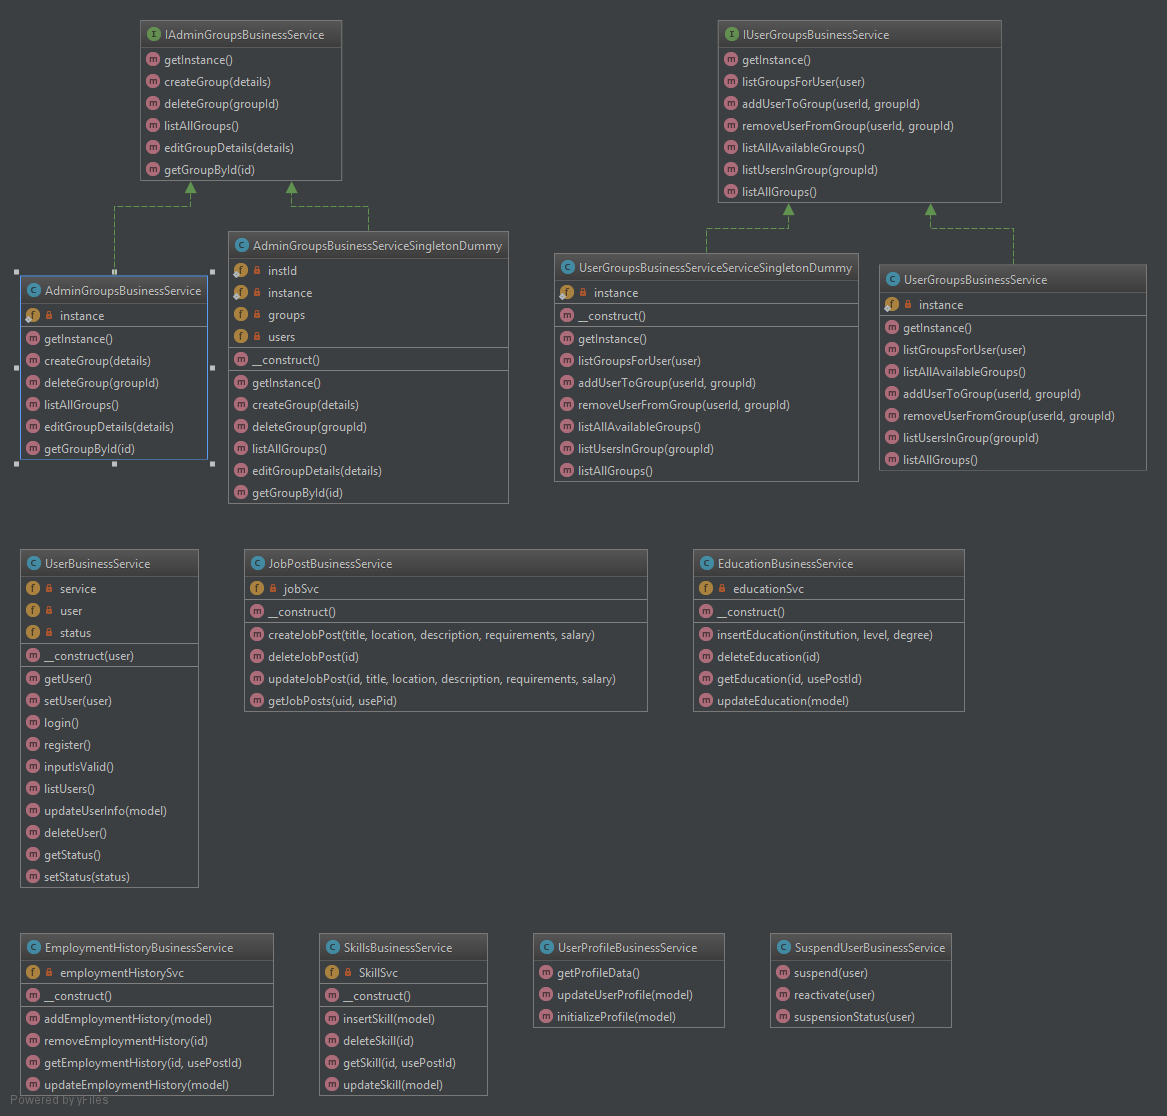
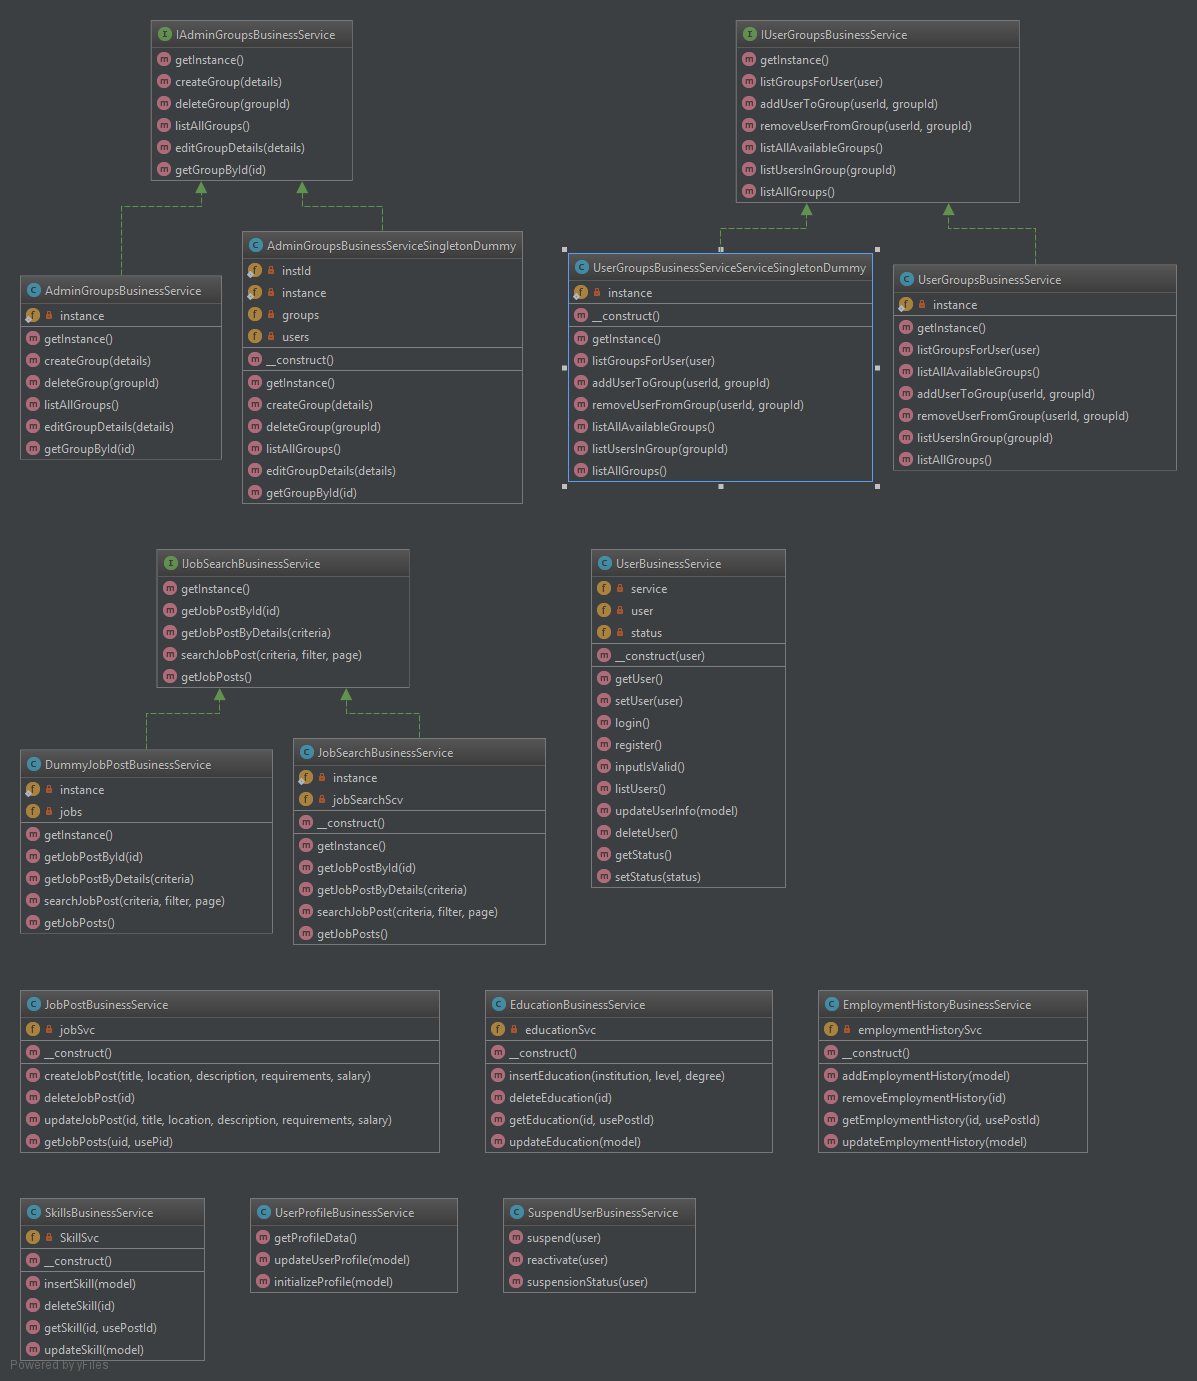
added DTO and Rest controllers

Changed region(s): [[0.0, 0.0, 0.9871, 1.0], [0.6478, 0.7007, 0.8638, 0.914]]

diff --git a/Project/CLC/app/Http/Controllers/JobRestController.php b/Project/CLC/app/Http/Controllers/JobRestController.php
@@ -1,0 +1,80 @@
+<?php
+
+namespace App\Http\Controllers;
+
+use App\Model\DTO;
+use App\Services\Business\JobPostBusinessService;
+use App\Services\Business\JobSearchBusinessService;
+
+class JobRestController extends Controller
+{
+
+    /**
+     * Display a listing of the resource.
+     *
+     * @return \Illuminate\Http\Response
+     */
+    public function index()
+    {
+
+        $jobBusSvc = new JobPostBusinessService();
+        $results = $jobBusSvc->getJobPosts();
+
+        $message = "success";
+
+        if (count($results) > 99){
+            $message = "warning over 100 rows requested, returned exactly ";
+        }
+
+        $dto = new DTO(200,$message,$results);
+        return json_encode($dto);
+    }
+
+    /**
+     * Display the specified resource.
+     *
+     * @param  int  $id
+     * @return \Illuminate\Http\Response
+     */
+    public function show($id) {
+        $statusCode = 200;
+        $message = "success";
+        $dto = null;
+        $jobBusSvc = new JobPostBusinessService();
+        $results = $jobBusSvc->getJobPosts($id,true);
+
+        if (count($results) > 0){
+
+            $dto = new DTO($statusCode,$message,$results);
+        }
+        else {
+            $statusCode = 404;
+            $message = "No job post with that id";
+            $dto = new DTO($statusCode, $message);
+        }
+
+        return json_encode($dto);
+    }
+
+    public function searchByName($show){
+
+        $statusCode = 200;
+        $message = "success";
+        $dto = null;
+
+        $searchSvc = JobSearchBusinessService::getInstance();
+
+        $results = $searchSvc->getJobPostByDetails($show);
+
+        if (count($results) > 0){
+            $dto = new DTO($statusCode,$message, $results);
+        }
+        else {
+            $dto = new DTO(404,"No job post with that name (empty)");
+        }
+
+        return $dto;
+    }
+
+
+}

diff --git a/Project/CLC/app/Services/Data/Utilities/DataRetrieval.php b/Project/CLC/app/Services/Data/Utilities/DataRetrieval.php
@@ -13,7 +13,6 @@ namespace App\Services\Data\Utilities;
 
 use App\Model\UserModel;
 use App\Model\UserProfileModel;
-use App\Services\Data\UserProfileDataAccessService;
 use App\Services\DatabaseAccess;
 use PDO;
 use PDOException;
@@ -123,11 +122,20 @@ class DataRetrieval
      * Returns an array containing a UserModel and a UserProfileModel
      * @return array
      */
-    public static function getUserProfileById()
+    public static function getUserProfileById($inputId = -1)
     {
-        $ask = session()->get("user");
-        $id = $ask->getId();
-        session()->save();
+
+        $id = -1;
+
+        if ($inputId != -1){
+            $id = $inputId;
+        } else{
+            $ask = session()->get("user");
+            $id = $ask->getId();
+            session()->save();
+        }
+
+
         $conn = DatabaseAccess::connect();
 
         // build query
@@ -140,8 +148,12 @@ class DataRetrieval
             $statement->execute();
             $assoc_array = $statement->fetch(PDO::FETCH_ASSOC);
 
+            if ($assoc_array == null) return null;
+
             $userProfile = new UserProfileModel($assoc_array["IMGURL"], $assoc_array["BIO"], $assoc_array["LOCATION"]);
             $user = self::getModelByUID($id);
+
+
             return array('user' => $user, 'userProfile' => $userProfile);
 
         } catch (PDOException $e) {

diff --git a/Project/CLC/app/Services/Data/UserProfileDataAccessService.php b/Project/CLC/app/Services/Data/UserProfileDataAccessService.php
@@ -11,15 +11,13 @@
 
 namespace App\Services\Data;
 
-use App\Model\UserModel;
 use App\Model\UserProfileModel;
 use App\Services\Data\Utilities\DataEdit;
 use App\Services\Data\Utilities\DataRetrieval;
 use App\Services\DatabaseAccess;
-use PDO;
 use PDOException;
 
-class UserProfileDataAccessService
+class UserProfileDataAccessService implements \JsonSerializable
 {
     private $conn, $ini;
 
@@ -35,9 +33,9 @@ class UserProfileDataAccessService
     /**
      * @return array
      */
-    public function read()
+    public function read($id = -1)
     {
-        return DataRetrieval::getUserProfileById();
+        return DataRetrieval::getUserProfileById($id);
     }
 
     public function update(UserProfileModel $model)
@@ -46,6 +44,11 @@ class UserProfileDataAccessService
         $bio = $model->getBio();
         DataEdit::updateProfile($location, $bio);
     }
+
+    public function jsonSerialize() {
+        return get_object_vars($this);
+    }
+
 
     /**
      * @param UserProfileModel $model

diff --git a/Project/CLC/app/Model/DTO.php b/Project/CLC/app/Model/DTO.php
@@ -1,0 +1,43 @@
+<?php
+/**
+ * version 1.0
+ *
+ * Student Name: Ali
+ * Course Number: CST-256
+ * Date: 4/8/2018
+ * This assignment was completed in collaboration with Connor Low, Ali Cooper.
+ * We used source code from the following websites to complete this assignment: N/A
+ */
+
+namespace app\Model;
+
+/**
+ * Data Transfer Object
+ */
+class DTO implements \JsonSerializable {
+
+    private $statusCode, $msg, $data;
+
+    /**
+     * DTO constructor.
+     * @param string $statusCode
+     * @param string $msg
+     * @param array $data
+     */
+    public function __construct($statusCode = "", $msg = "", $data = array() ){
+
+        $this->data = $data;
+        $this->msg = $msg;
+        $this->statusCode = $statusCode;
+
+    }
+
+    /**
+     * @return array|mixed
+     */
+    public function jsonSerialize() {
+        return get_object_vars($this);
+    }
+
+
+}

diff --git a/Project/CLC/app/Http/Controllers/ProfileRestController.php b/Project/CLC/app/Http/Controllers/ProfileRestController.php
@@ -1,0 +1,37 @@
+<?php
+
+namespace App\Http\Controllers;
+
+use App\Model\DTO;
+use App\Services\Business\UserProfileBusinessService;
+
+class ProfileRestController extends Controller
+{
+
+
+    /**
+     * Display the specified resource.
+     *
+     * @param  int  $id
+     * @return \Illuminate\Http\Response
+     */
+    public function show($id)
+    {
+
+        $userSvc = new UserProfileBusinessService();
+        $result = $userSvc->getProfileData($id);
+        $statusCode = 200;
+        $message = "success";
+
+        if ($result == null){
+            $statusCode = 404;
+            $message = "No profile found";
+        }
+
+        $dto = new DTO($statusCode,$message,$result);
+
+        return json_encode($dto);
+
+    }
+
+}

diff --git a/Project/CLC/app/Services/Business/JobSearchBusinessService.php b/Project/CLC/app/Services/Business/JobSearchBusinessService.php
@@ -11,11 +11,13 @@ use Mockery\Exception;
  * Class JobSearchBusinessService
  * @package app\Services\Business
  */
-class JobSearchBusinessService implements IJobSearchBusinessService
+class JobSearchBusinessService implements IJobSearchBusinessService, \JsonSerializable
 {
 
     private static $instance = null;
     private $jobSearchScv = null;
+
+
 
     /**
      * returns single instance of Job search serviec
@@ -90,6 +92,13 @@ class JobSearchBusinessService implements IJobSearchBusinessService
     public function getJobPosts(): array
     {
         return $this->jobSearchScv->getJobPosts();
+    }
+
+    /**
+     * @return array|mixed
+     */
+    public function jsonSerialize() {
+        return get_object_vars($this);
     }
 
 

diff --git a/Project/CLC/app/Http/Kernel.php b/Project/CLC/app/Http/Kernel.php
@@ -4,8 +4,8 @@ namespace App\Http;
 
 use App\Http\Middleware\CheckAdmin;
 use App\Http\Middleware\CheckedLoggedIn;
-use App\Http\Middleware\CheckUserInGroup;
 use App\Http\Middleware\CheckGroupExists;
+use App\Http\Middleware\CheckUserInGroup;
 use Illuminate\Foundation\Http\Kernel as HttpKernel;
 
 class Kernel extends HttpKernel
@@ -22,7 +22,7 @@ class Kernel extends HttpKernel
         \Illuminate\Foundation\Http\Middleware\ValidatePostSize::class,
         \App\Http\Middleware\TrimStrings::class,
         \Illuminate\Foundation\Http\Middleware\ConvertEmptyStringsToNull::class,
-        \App\Http\Middleware\TrustProxies::class,
+        \App\Http\Middleware\TrustProxies::class
     ];
 
     /**

diff --git a/Project/CLC/config/database.php b/Project/CLC/config/database.php
@@ -42,10 +42,10 @@ return [
         'mysql' => [
             'driver' => 'mysql',
             'host' => env('DB_HOST', '127.0.0.1'),
-            'port' => env('DB_PORT', '3306'),
+            'port' => env('DB_PORT', '54094'),
             'database' => env('DB_DATABASE', 'laratest'),
-            'username' => env('DB_USERNAME', 'root'),
-            'password' => env('DB_PASSWORD', 'root'),
+            'username' => env('DB_USERNAME', 'azure'),
+            'password' => env('DB_PASSWORD', '6#vWHD_$'),
             'unix_socket' => env('DB_SOCKET', ''),
             'charset' => 'utf8mb4',
             'collation' => 'utf8mb4_unicode_ci',

diff --git a/Project/CLC/app/Services/Business/UserProfileBusinessService.php b/Project/CLC/app/Services/Business/UserProfileBusinessService.php
@@ -14,17 +14,16 @@ namespace App\Services\Business;
 
 use App\Model\UserProfileModel;
 use App\Services\Data\UserProfileDataAccessService;
-use App\User;
 
 class UserProfileBusinessService
 {
     /**
      * @return array
      */
-    public function getProfileData()
+    public function getProfileData($id = -1)
     {
         $profile = new UserProfileDataAccessService();
-        return $profile->read();
+        return $profile->read($id);
     }
 
     public function updateUserProfile(UserProfileModel $model)

diff --git a/Project/CLC/app/Model/UserProfileModel.php b/Project/CLC/app/Model/UserProfileModel.php
@@ -13,11 +13,7 @@
 
 namespace App\Model;
 
-use App\Services\DatabaseAccess;
-use PDO;
-use PDOStatement;
-
-class UserProfileModel
+class UserProfileModel implements \JsonSerializable
 {
     private $id, $imgURL, $uid, $bio, $location;
     private $education, $skills, $employment;
@@ -172,6 +168,10 @@ class UserProfileModel
     public function setLocation($location)
     {
         $this->location = $location;
+    }
+
+    public function jsonSerialize() {
+        return get_object_vars($this);
     }
 
 }

diff --git a/Project/CLC/app/Services/Data/JobSearchDataAccessService.php b/Project/CLC/app/Services/Data/JobSearchDataAccessService.php
@@ -81,7 +81,9 @@ class JobSearchDataAccessService
 
             $statement->execute(array("%$criteria%"));
 
-            while ($row = $statement->fetch(PDO::FETCH_ASSOC)) {
+            $count = 0;
+
+            while ($count++ < 101 && $row = $statement->fetch(PDO::FETCH_ASSOC)) {
                 $job = new JobModel($row["ID"], $row["TITLE"], $row["AUTHOR"],
                     $row["LOCATION"], $row["DESCRIPTION"], $row["REQUIREMENTS"], $row["SALARY"]);
                 array_push($JobArr, $job);

diff --git a/Project/CLC/routes/web.php b/Project/CLC/routes/web.php
@@ -108,3 +108,13 @@ Route::post('search', 'JobSearchController@search');//->middleware('auth');
 
 // view job description
 Route::get('view_job/{id}', 'JobSearchController@show');//->middleware('auth');
+
+/* ==== Profile REST ==== */
+Route::resource("/api/profile","ProfileRestController");
+
+/* ==== Job REST ==== */
+Route::resource("/api/jobs","JobRestController");
+Route::get("/api/jobs/byname/{id}","JobRestController@searchByName");
+
+/* ==== Profile REST ==== */
+Route::resource("/api/jobs","");
